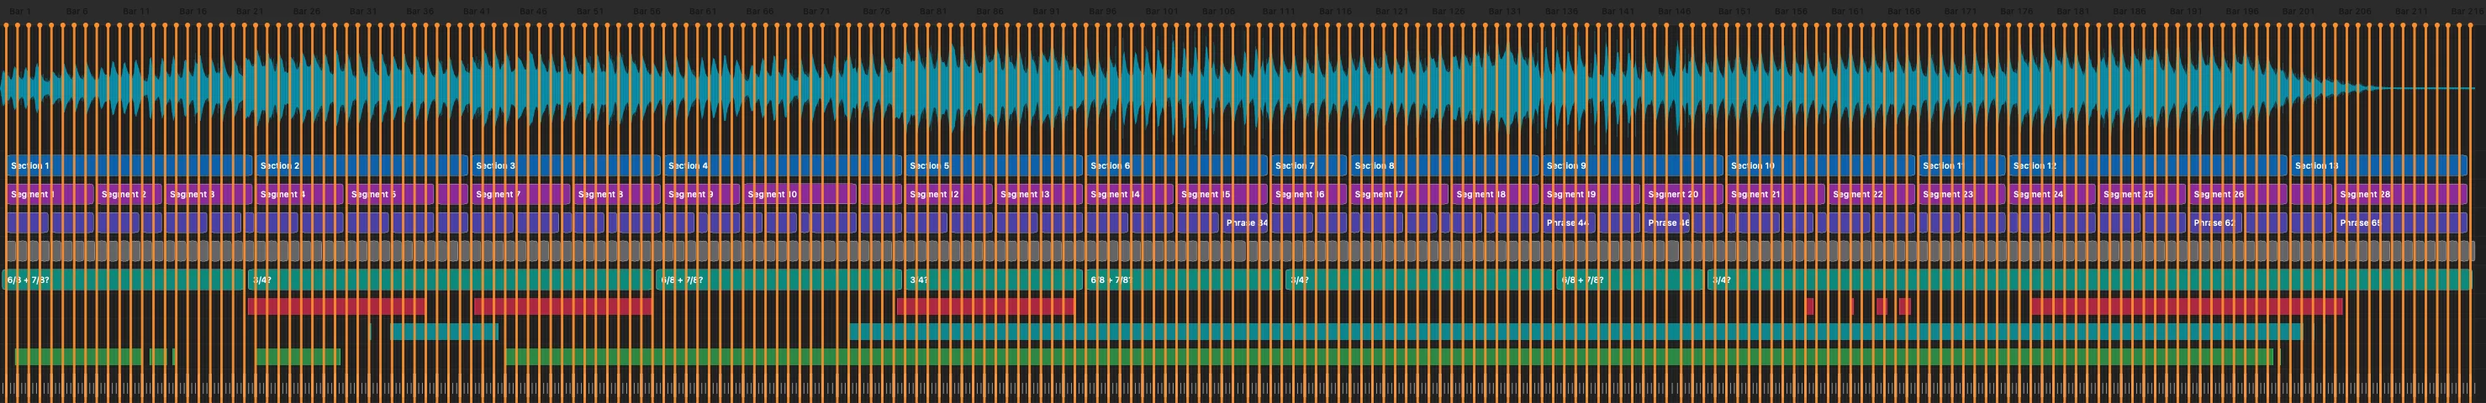
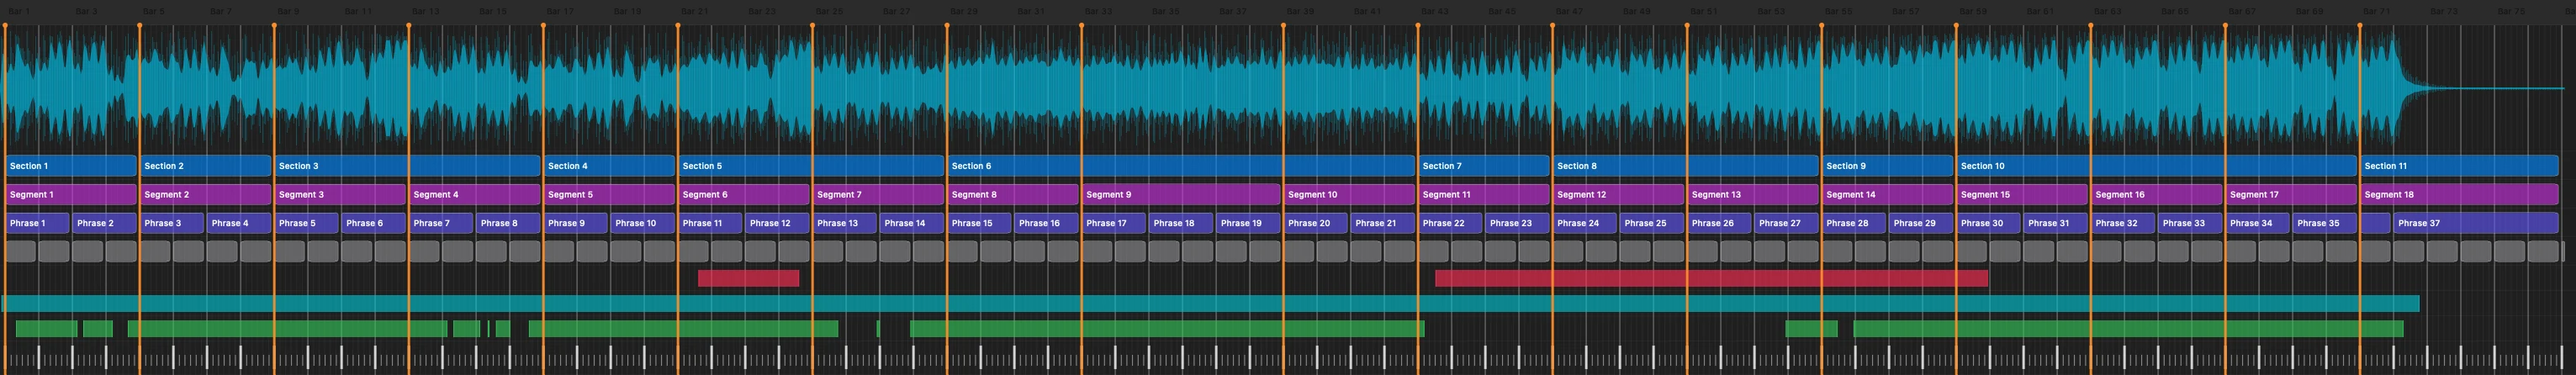
Show only section and segment MusicPoints

diff --git a/index.html b/index.html
@@ -87,7 +87,7 @@
           <h2>Music, made legible.</h2>
         </div>
         <figure class="wide-shot">
-          <img src="assets/timeline-overview.webp" width="2957" height="480" alt="Full-song TimeCoder overview with a cyan waveform and colour-coded musical regions">
+          <img src="assets/timeline-overview.webp" width="3063" height="446" alt="Full-song TimeCoder overview with a cyan waveform and colour-coded musical regions; only Section and Segment MusicPoints are active">
           <figcaption>Fit the complete song or zoom down to individual beats without losing musical context.</figcaption>
         </figure>
         <div class="feature-grid">
